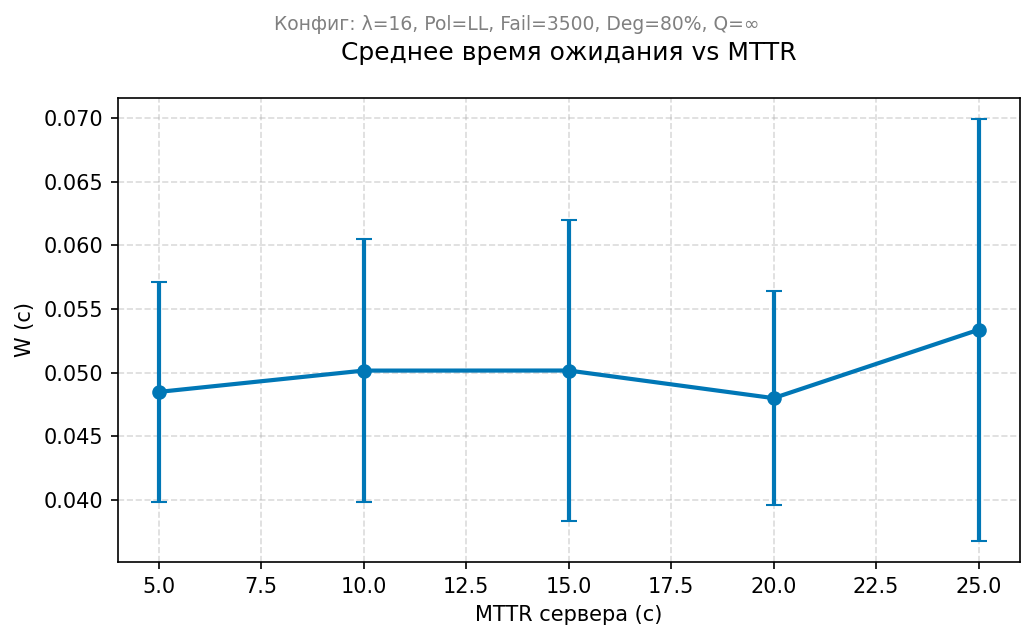
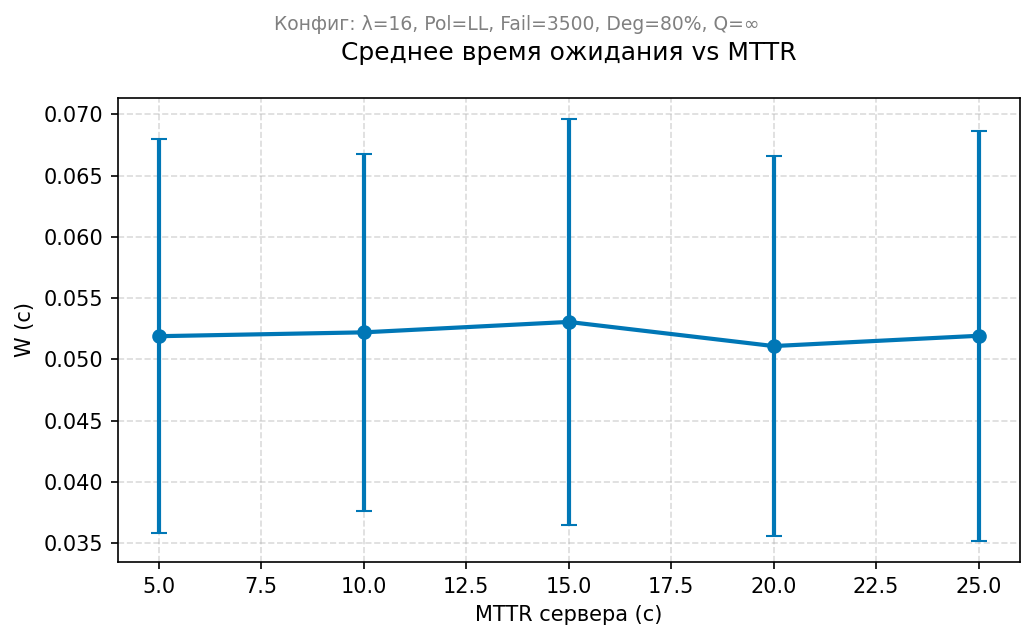
refactor simulator_v3.py

diff --git a/simulator_v3.py b/simulator_v3.py
@@ -76,15 +76,15 @@ def container_service_rate(base_rate: float, n_total: int, m_active: int) -> flo
 @dataclass
 class SimConfig:
     # Топология кластера
-    num_nodes:           int   = 3       # число рабочих узлов N
-    containers_per_node: int   = 3       # контейнеров на узел C
+    num_nodes:           int   = 4       # число рабочих узлов N
+    containers_per_node: int   = 9       # контейнеров на узел C
 
     # Очередь (бесконечная — для наблюдения взрывного роста задержек)
     queue_capacity:      int   = 999_999
 
     # Входной поток
     arrival_rate:        float = 16.0   # λ, задач/с
-    base_service_rate:   float = 22.242 # μ₀ = μ(3,1), с⁻¹
+    base_service_rate:   float = 21.957 # μ₀ = μ(9,1), с⁻¹
 
     # Время прогона
     sim_time:            float = 5000.0  # секунд
@@ -100,7 +100,7 @@ class SimConfig:
 
     # Параметры отказов контейнера
     container_mttf:      float = 1000.0
-    container_mttr:      float = 10.0
+    container_mttr:      float = 2.0
 
     # Параметры балансировщика (SPOF)
     lb_service_rate:     float = 50.0   # интенсивность маршрутизации LB
@@ -681,7 +681,7 @@ def generate_plots(data: dict):
     matplotlib.use("Agg")
     print("\nГенерация 24 графиков...")
 
-    cfg_fail = "λ=16, Pol=LL, MTTR=15, Q=∞"
+    cfg_fail = "λ=16, Pol=LL, MTTR=15, N=4, C=9, Q=∞"
     cfg_mttr = "λ=16, Pol=LL, Fail=3500, Deg=80%, Q=∞"
     cfg_bal  = "λ=16, Fail=3500, Deg=80%, MTTR=15, Q=∞"
     cfg_lam  = "Pol=LL, Fail=3500, Deg=80%, MTTR=15, Q=∞"
